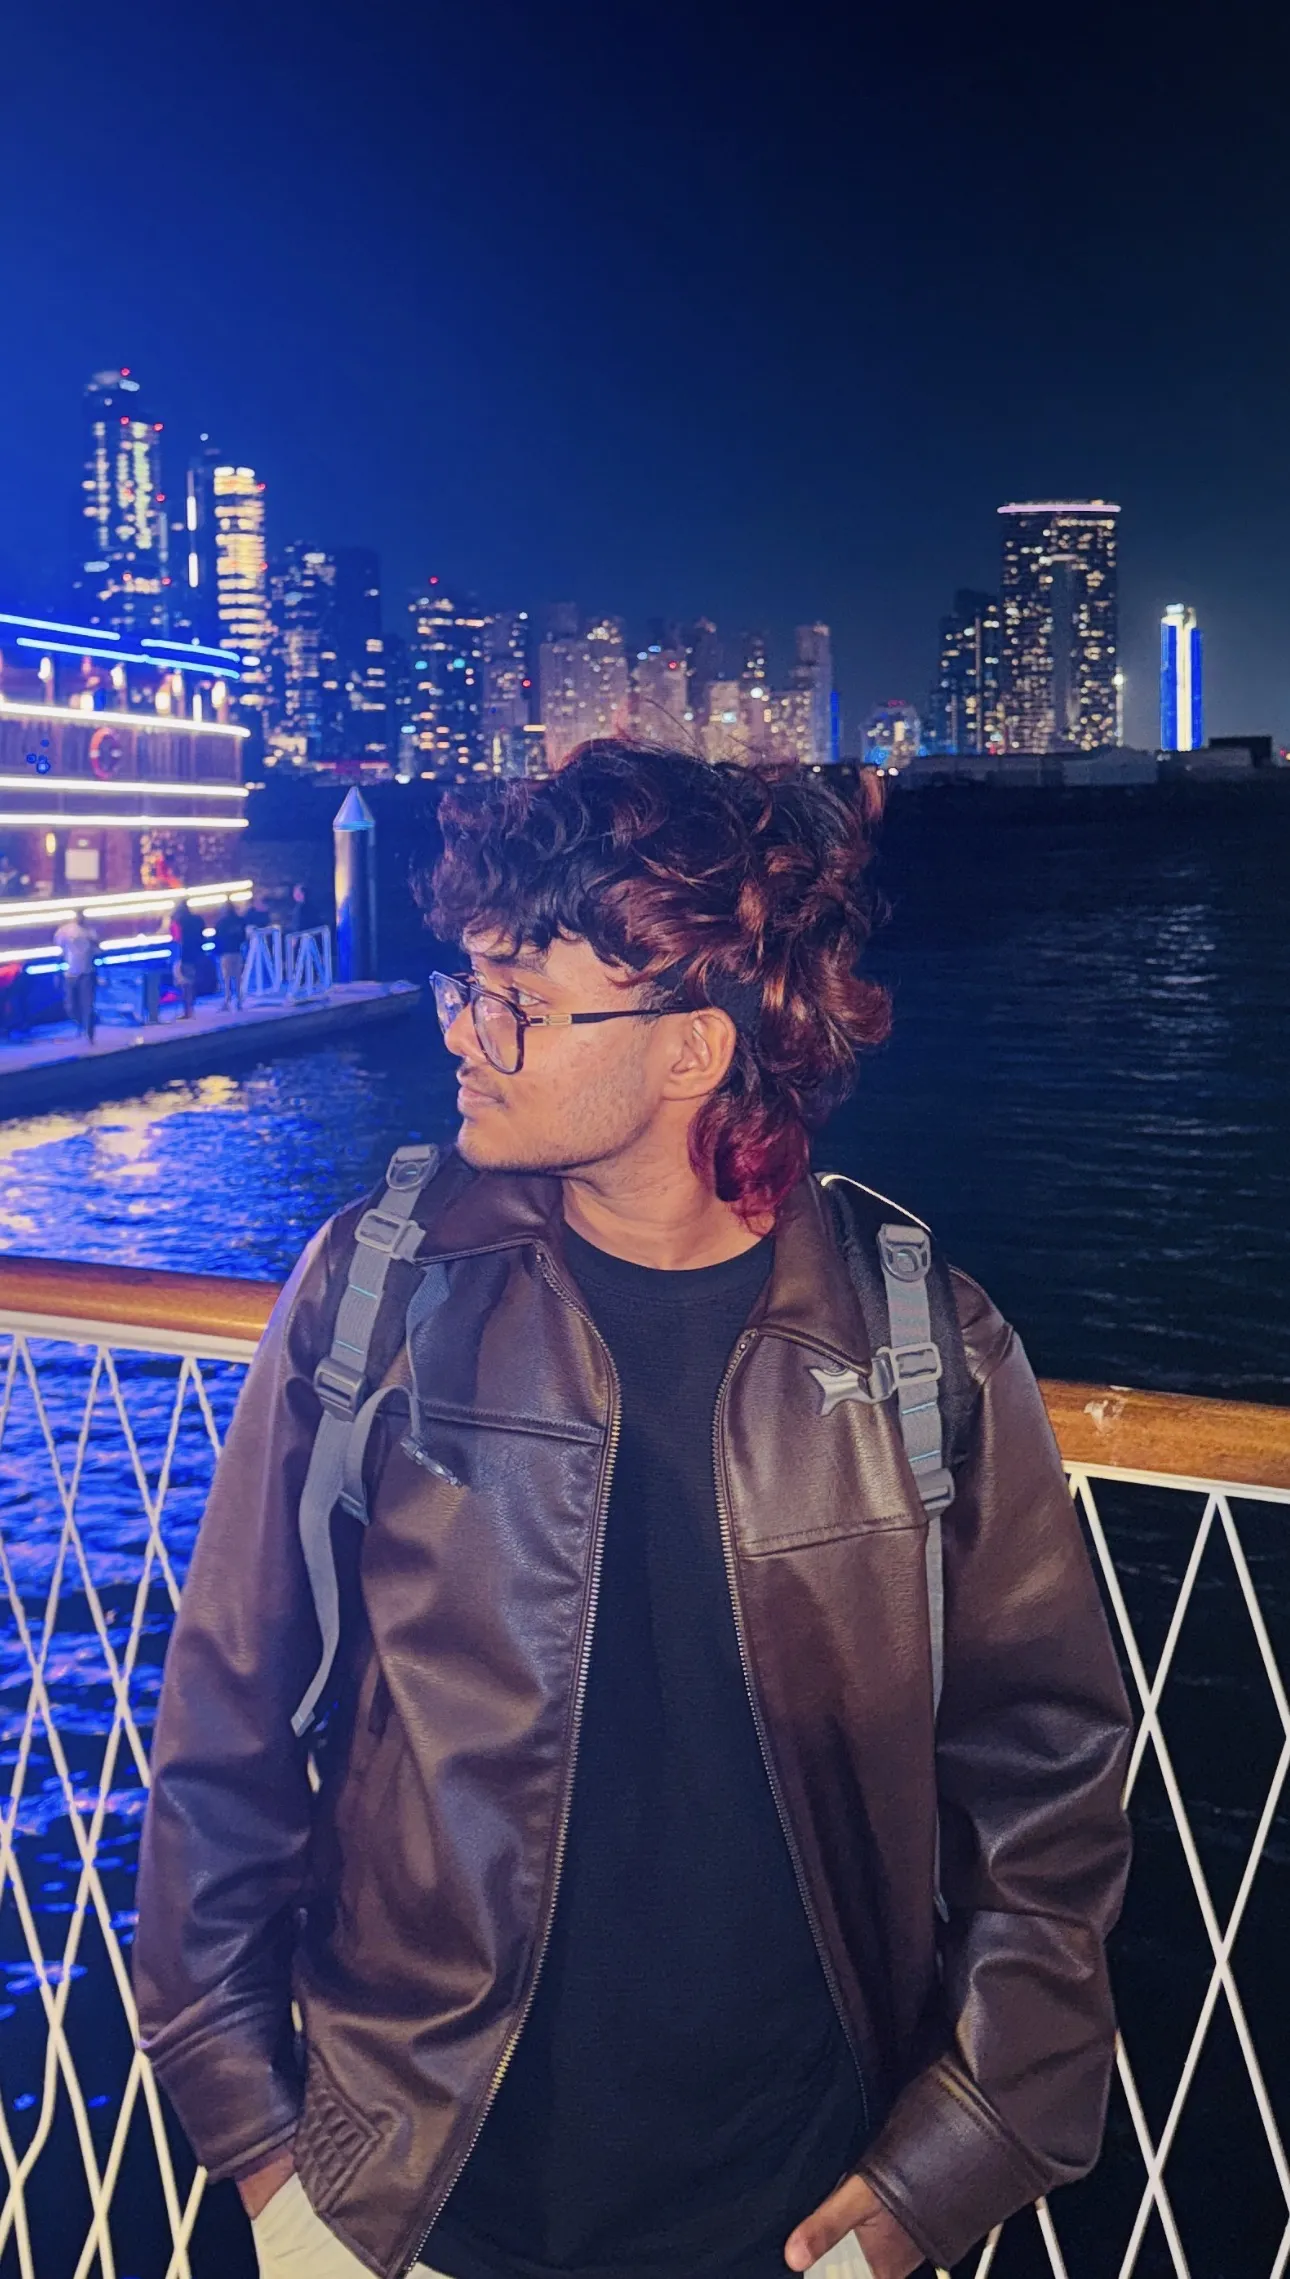
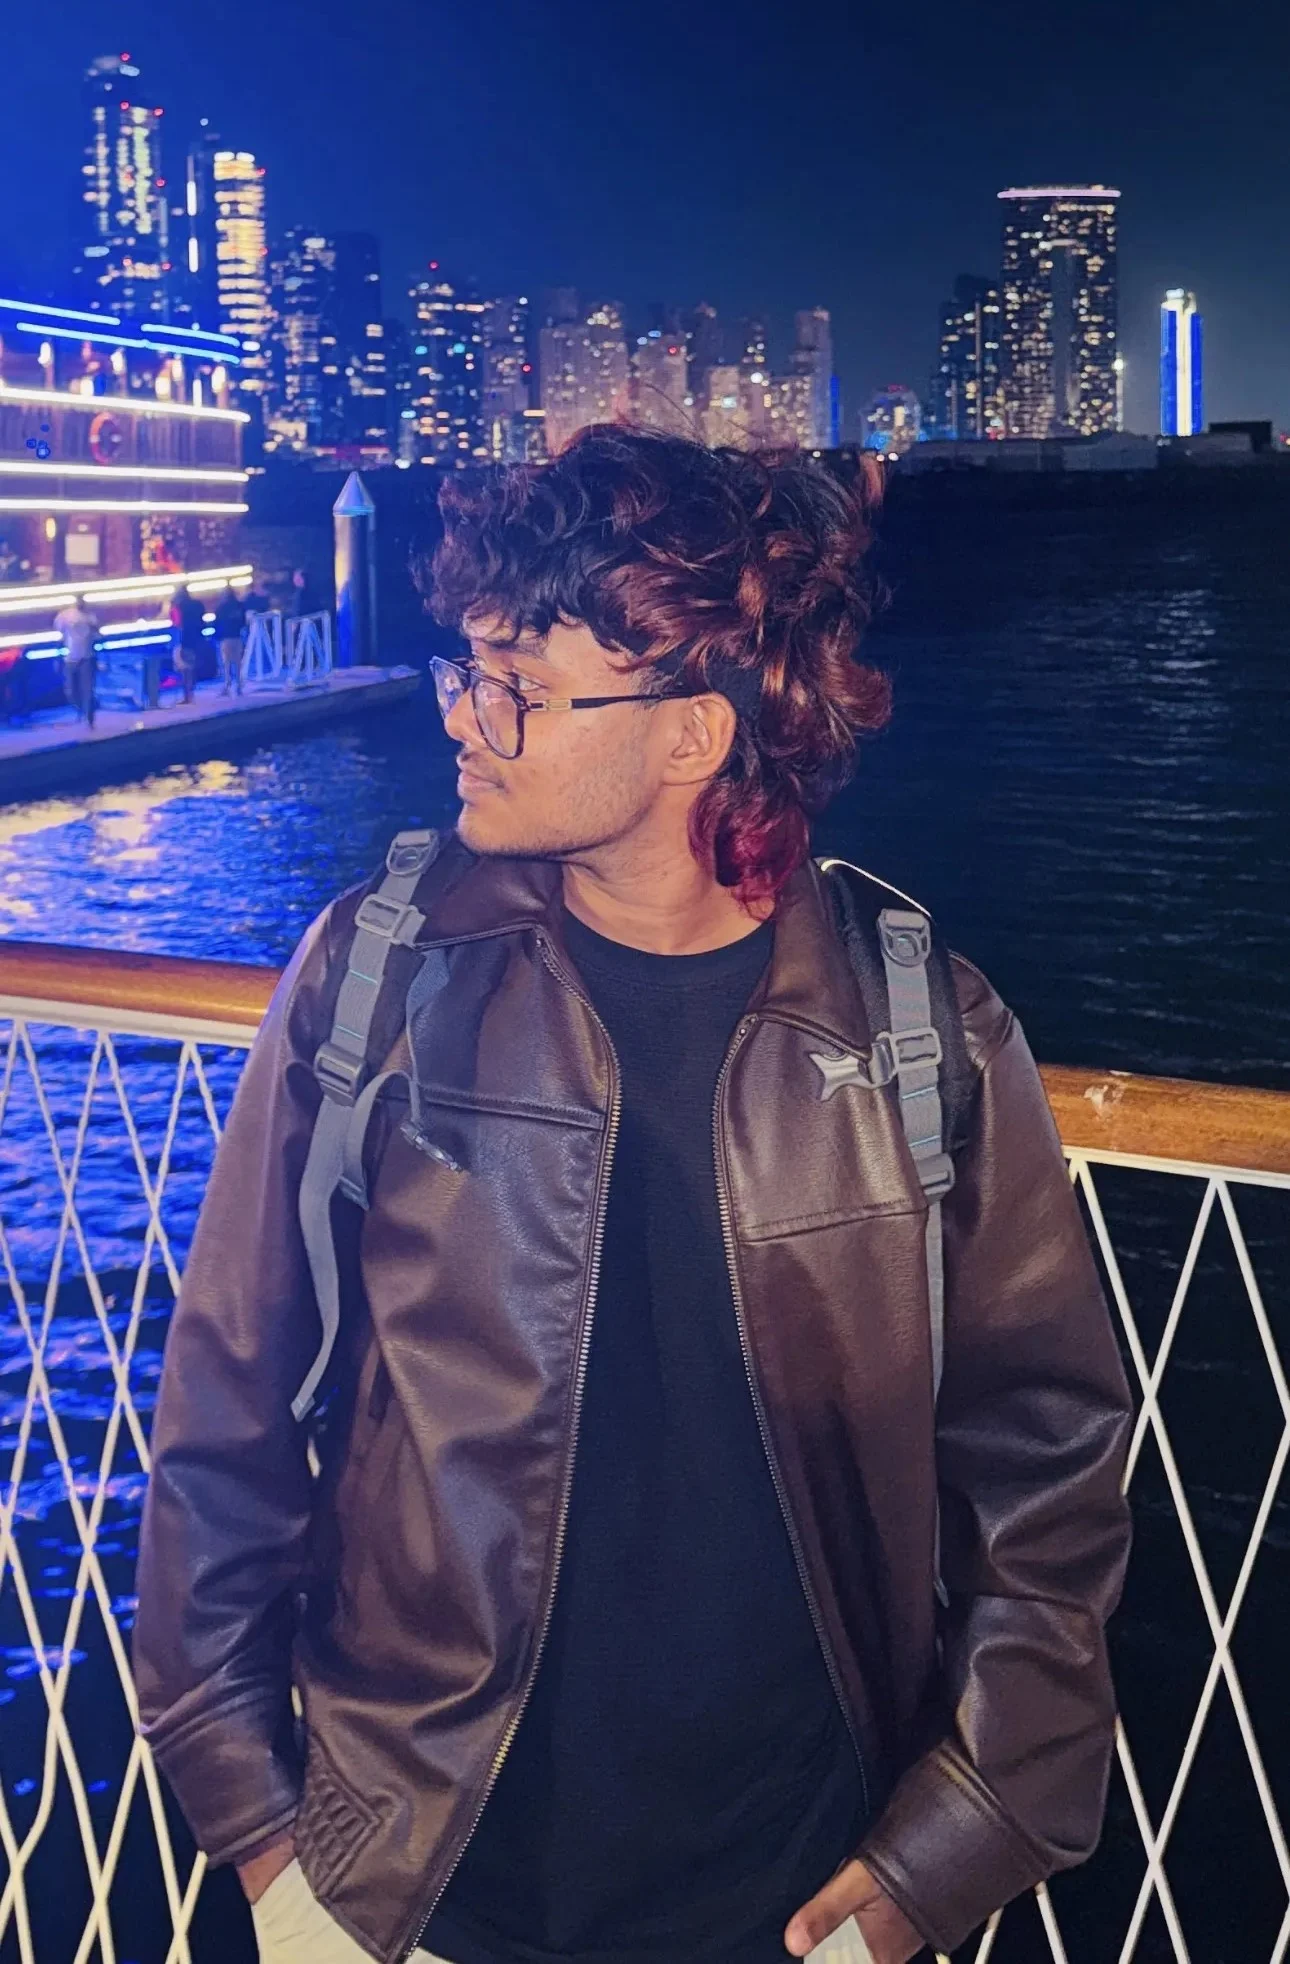
fixed core members images & added community partners

diff --git a/src/pages/home/sections/about/About.tsx b/src/pages/home/sections/about/About.tsx
@@ -94,7 +94,13 @@ const tiers: Tier[] = [
     borderColor: 'rgba(255,255,255,0.15)',
     shadowColor: 'rgba(255,255,255,0.04)',
     layout: 'grid',
-    sponsors: [],  // add community partner logos here
+    sponsors: [
+      { name: 'Citadel', logo: '/commPartner/citadel.webp', alt: 'Citadel' },
+      { name: 'GDG', logo: '/commPartner/gdg.jpg', alt: 'GDG' },
+      { name: 'Hacktropica', logo: '/commPartner/Hacktropica-logo-2.png', alt: 'Hacktropica' },
+      { name: 'Innofusion', logo: '/commPartner/innofusion.png', alt: 'Innofusion' },
+      { name: 'RCIIT ACM', logo: '/commPartner/rcciitAcm.png', alt: 'RCIIT ACM' },
+    ],
   },
 ]
 
@@ -104,21 +110,22 @@ interface SponsorCardProps {
   sponsor: Sponsor
   borderColor: string
   shadowColor: string
+  compact?: boolean
 }
 
 const SponsorCard: React.FC<SponsorCardProps> = ({
   sponsor,
   borderColor,
   shadowColor,
+  compact = false,
 }) => (
   <div
-    className="flex items-center justify-center rounded-2xl bg-white/5 backdrop-blur-sm transition-all duration-500 hover:bg-white/10 hover:scale-[1.03] cursor-default"
+    className={`flex items-center justify-center rounded-2xl bg-white/5 backdrop-blur-sm transition-all duration-500 hover:bg-white/10 hover:scale-[1.03] cursor-default ${compact ? 'w-[130px] h-[75px] sm:w-[240px] sm:h-[130px] p-3 sm:p-[20px_28px]' : ''
+      }`}
     style={{
       border: `1px solid ${borderColor}`,
       boxShadow: `0 0 40px ${shadowColor}`,
-      width: '240px',
-      height: '130px',
-      padding: '20px 28px',
+      ...(!compact && { width: '240px', height: '130px', padding: '20px 28px' }),
     }}
   >
     <img
@@ -202,35 +209,19 @@ const TierSection: React.FC<TierSectionProps> = ({ tier, sectionRef }) => (
             ))}
           </div>
         ) : (
-          <div className="grid grid-cols-2 md:grid-cols-3 gap-4 mt-4">
+          <div className="grid grid-cols-2 sm:grid-cols-3 gap-3 sm:gap-4 mt-4 justify-items-center">
             {tier.sponsors.map((s) => (
               <SponsorCard
                 key={s.name}
                 sponsor={s}
                 borderColor={tier.borderColor}
                 shadowColor={tier.shadowColor}
+                compact
               />
             ))}
           </div>
         )
-      ) : (
-        // Empty state placeholder for community partners
-        <div className="grid grid-cols-2 md:grid-cols-3 gap-4 mt-4">
-          {Array.from({ length: 6 }).map((_, i) => (
-            <div
-              key={i}
-              className="flex items-center justify-center rounded-2xl bg-white/5 backdrop-blur-sm"
-              style={{
-                border: `1px solid ${tier.borderColor}`,
-                width: '240px',
-                height: '130px',
-              }}
-            >
-              <div className="w-16 h-6 rounded bg-white/10 animate-pulse" />
-            </div>
-          ))}
-        </div>
-      )}
+      ) : null}
     </div>
   </section>
 )
